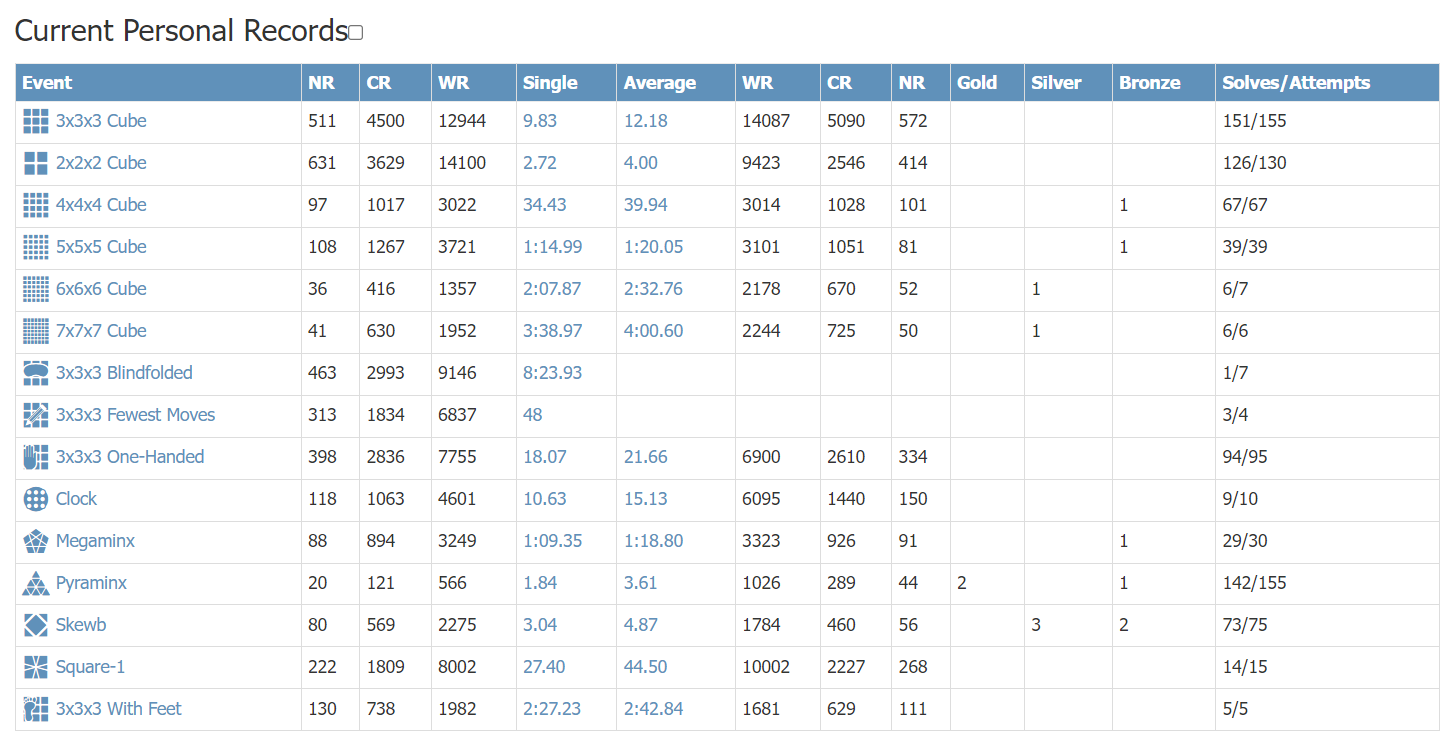
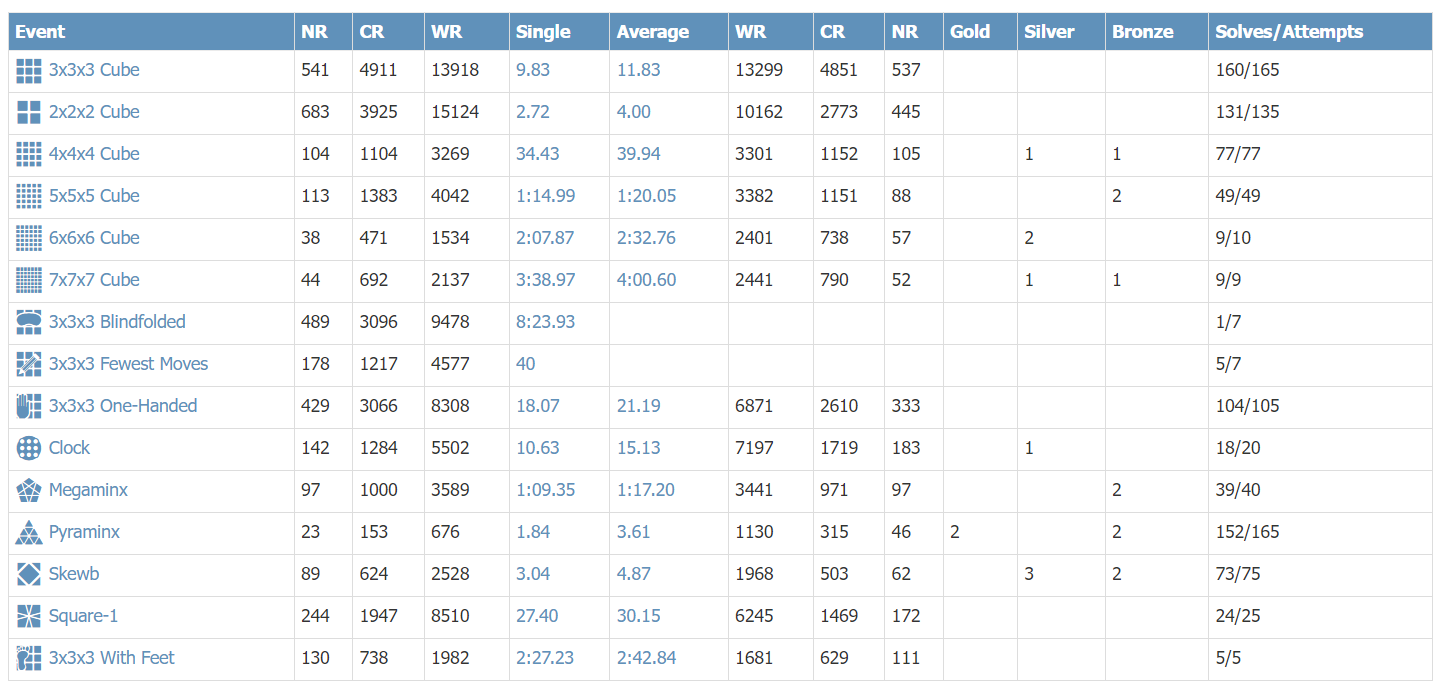
Speed Cubing updated

diff --git a/src/Components/AboutMe/AboutMe.js b/src/Components/AboutMe/AboutMe.js
@@ -15,9 +15,13 @@ const AboutMe = (props) => {
       </h1>
       <div className="md:text-lg mb-3 md:mb-1">
 
-        I am a passionate Software Development and Machine Learning Enthusiast, who has completed my B.Tech in Computer Science with a specialization in AI & ML from the Indian Institute of Information Technology, Sri City, graduating with a CGPA of <b>9.30</b>. 
+        I am a passionate Software Development and Machine Learning enthusiast with a B.Tech in Computer Science, specializing in AI & ML from Indian Institute of Information Technology Sri City, where I graduated with a CGPA of <b>9.30</b>.
+        My team, Git Clone, won the <b>Smart India Hackathon 2023</b>, hosted by the <b>Ministry of Education</b>.
+        Currently, I am pursuing a Master of Science in Computer Science at Arizona State University.
+
+        {/* I am a passionate Software Development and Machine Learning Enthusiast, who has completed my B.Tech in Computer Science with a specialization in AI & ML from the Indian Institute of Information Technology, Sri City, graduating with a CGPA of <b>9.30</b>. 
         My team, Git Clone, won the <b>Smart India Hackathon 2023</b> held by the <b>Ministry of Education</b>. 
-        I have started my Master of Science in Computer Science at Arizona State University.
+        I have started my Master of Science in Computer Science at Arizona State University. */}
 
         {/* I am a passionate Machine Learning and Web Development Enthusiast,
         currently pursuing my B.Tech in Computer Science with specialization in
@@ -25,16 +29,16 @@ const AboutMe = (props) => {
         won the <b>Smart India Hackathon 2023</b> held by <b>Ministry of Education.</b>{" "} */}
       </div>
       <div className="md:text-lg mb-3 md:mb-1">
-        During my B.Tech I have worked on several projects in Web Development
+        During my B.Tech, I worked on numerous projects in Web Development and Machine Learning and gained over a year of internship experience as a Web Developer,
+        particularly in the MERN stack. I am now seeking full-time opportunities in Machine Learning and Web Development to further broaden my expertise.
+        {/* During my B.Tech I have worked on several projects in Web Development
         and Machine Learning. I also have <b>over a year of Intern experience</b>{" "}
         as a Web Developer particularly in MERN stack. I am currently
-        looking for full time Machine Learning and Web Development opportunities to expand my knowledge boundary.
+        looking for full time Machine Learning and Web Development opportunities to expand my knowledge boundary. */}
       </div>
       <div className="md:text-lg mb-3 md:mb-4">
-        I am also a Speed Cuber. I am regularly competing at speedcubing held by
-        the World Cube Association since 2017. I am currently ranked among Top
-        80 speedcubers of India with a notable result being my pyraminx solve of{" "}
-        <b>1.84</b> seconds that ranks me 20 in India.
+        Additionally, I am a dedicated speedcuber, competing since 2017 in World Cube Association events.
+        I am ranked among the top 80 speedcubers in India, with a notable pyraminx solve of <b>1.84</b> seconds, ranking me 20th nationally.
       </div>
       <div className="flex flex-row gap-x-4">
         <a target="_blank" href="https://codeforces.com/profile/TejasParse03">
